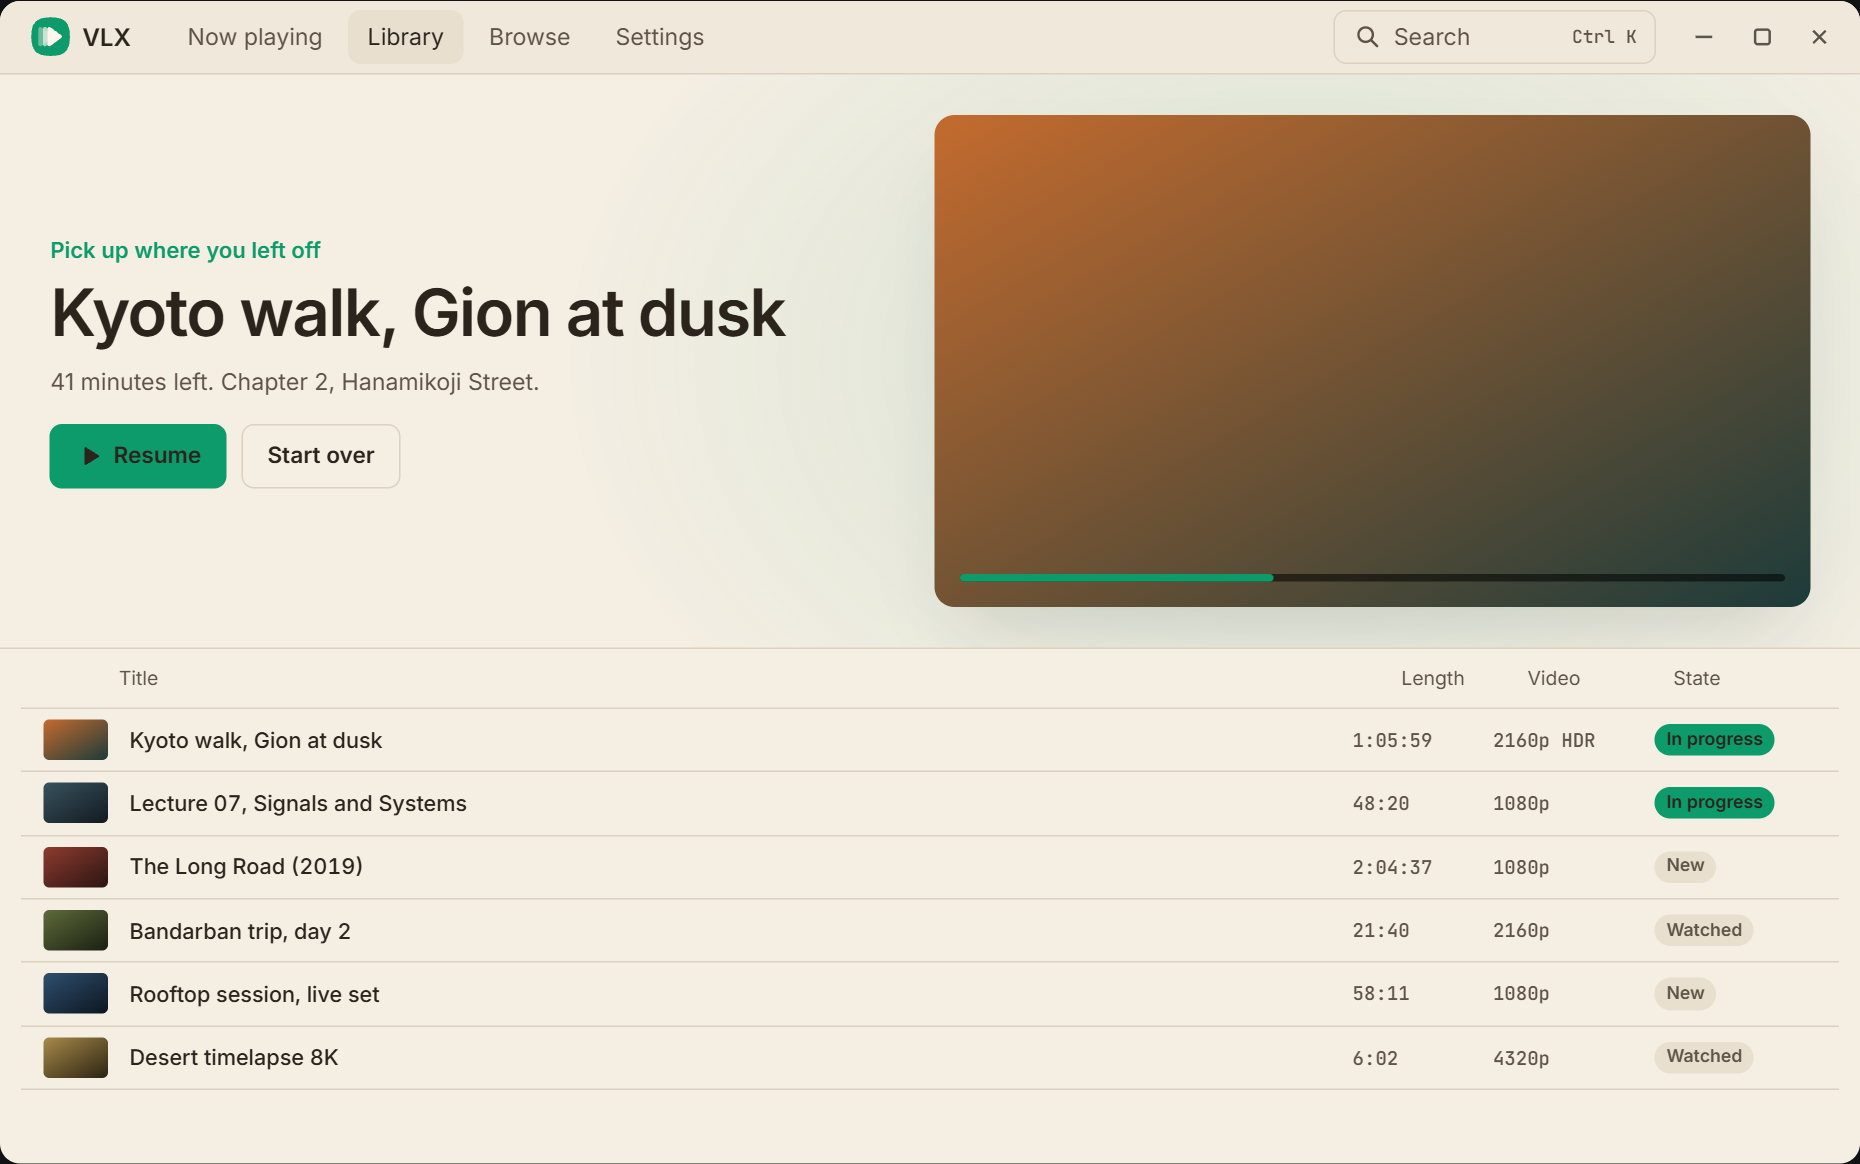
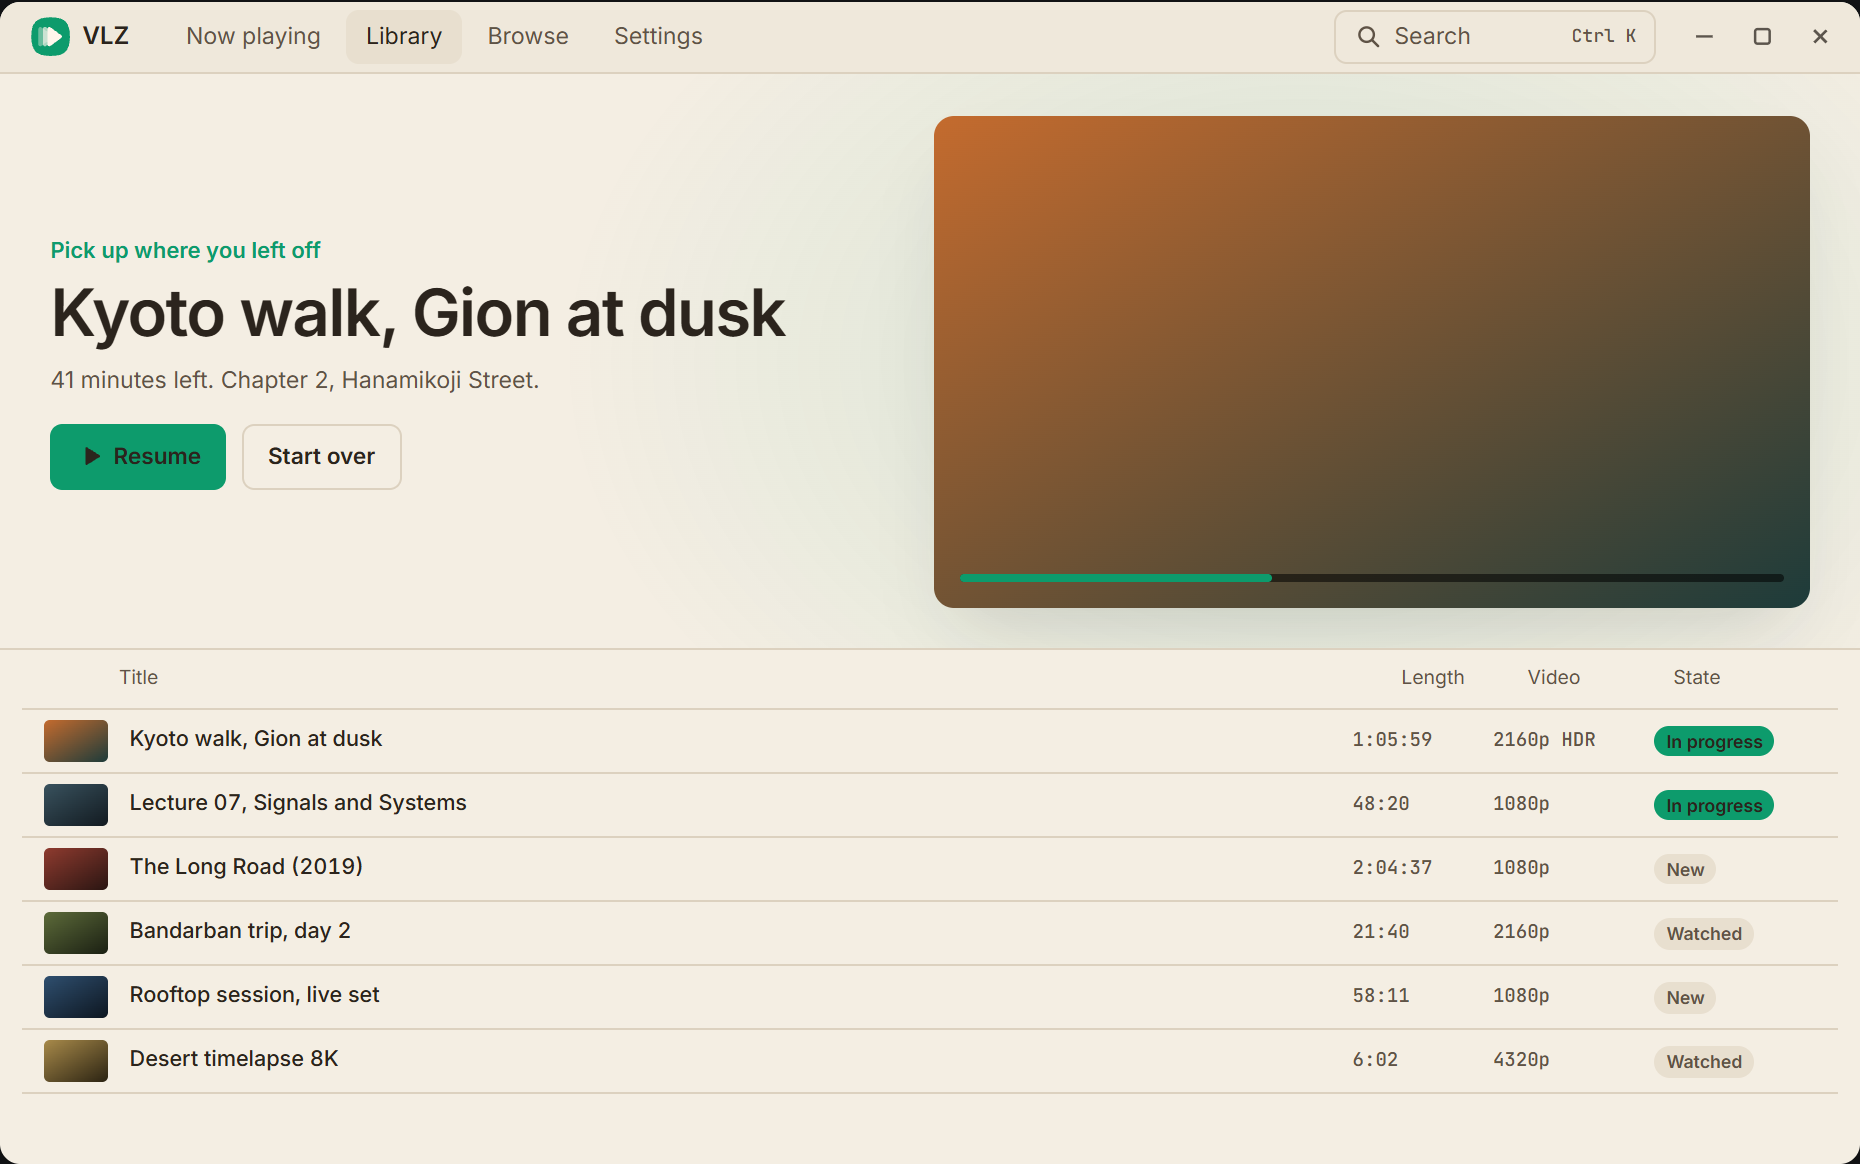
vlz: point links at the renamed GitHub repo and refresh the screenshots

diff --git a/extras/vlz/rebrand.py b/extras/vlz/rebrand.py
@@ -48,7 +48,7 @@ STRINGS = [
     ('extras/package/win32/NSIS/vlc.win32.nsi.in', '!define PRODUCT_NAME "VLC media player"', '!define PRODUCT_NAME "VLZ"'),
     ('extras/package/win32/NSIS/vlc.win32.nsi.in', '!define PRODUCT_GROUP "VideoLAN"', '!define PRODUCT_GROUP "VLZ"'),
     ('extras/package/win32/NSIS/vlc.win32.nsi.in', '!define PRODUCT_PUBLISHER "VideoLAN"', '!define PRODUCT_PUBLISHER "VLZ"'),
-    ('extras/package/win32/NSIS/vlc.win32.nsi.in', '!define PRODUCT_WEB_SITE "https://www.videolan.org/"', '!define PRODUCT_WEB_SITE "https://github.com/TriptoAfsin/vlx"'),
+    ('extras/package/win32/NSIS/vlc.win32.nsi.in', '!define PRODUCT_WEB_SITE "https://www.videolan.org/"', '!define PRODUCT_WEB_SITE "https://github.com/TriptoAfsin/vlz"'),
     ('extras/package/win32/NSIS/vlc.win32.nsi.in', '!define PRODUCT_ID "{ea92ef52-afe4-4212-bacb-dfe9fca94cd6}"', '!define PRODUCT_ID "{6b1f3c2e-4d7a-4f6e-9a8b-5c2d1e0f7a91}"'),
     ('extras/package/win32/NSIS/vlc.win32.nsi.in', 'InstallDir "$@PROGRAMFILES@\\${PRODUCT_PUBLISHER}\\VLC"', 'InstallDir "$@PROGRAMFILES@\\${PRODUCT_NAME}"'),
     ('extras/package/win32/NSIS/vlc.win32.nsi.in', 'BrandingText "${PRODUCT_GROUP} ${PRODUCT_NAME}"', 'BrandingText "${PRODUCT_NAME}, based on VLC media player"'),
@@ -62,7 +62,7 @@ PATTERNS = [
      r'qtr\( "<p>VLC media player is a free and open source media player.*?" \) \+',
      'qtr( "<p>VLZ is a personal, open source fork of <a href=\\"https://www.videolan.org/vlc/\\">VLC media player</a>. '
      'All credit for the engine and codecs goes to the volunteers of the <a href=\\"https://www.videolan.org/\\">VideoLAN</a> community.</p>'
-     '<p>VLZ is not affiliated with VideoLAN.</p><p><a href=\\"https://github.com/TriptoAfsin/vlx\\">VLZ on GitHub</a>" ) +'),
+     '<p>VLZ is not affiliated with VideoLAN.</p><p><a href=\\"https://github.com/TriptoAfsin/vlz\\">VLZ on GitHub</a>" ) +'),
 ]
 
 # (source in extras/vlz/brand, destination)

diff --git a/modules/gui/qt/dialogs/help/help.cpp b/modules/gui/qt/dialogs/help/help.cpp
@@ -95,7 +95,7 @@ AboutDialog::AboutDialog( qt_intf_t *_p_intf)
     ui.title->setText("<html><head/><body><p><span style=\" font-size:26pt; color:#353535;\"> " + qtr( "VLZ" ) + " </span></p></body></html>");
 
     ui.MainBlabla->setText("<html><head/><body>" +
-    qtr( "<p>VLZ is a personal, open source fork of <a href=\"https://www.videolan.org/vlc/\">VLC media player</a>. All credit for the engine and codecs goes to the volunteers of the <a href=\"https://www.videolan.org/\">VideoLAN</a> community.</p><p>VLZ is not affiliated with VideoLAN.</p><p><a href=\"https://github.com/TriptoAfsin/vlx\">VLZ on GitHub</a>" ) +
+    qtr( "<p>VLZ is a personal, open source fork of <a href=\"https://www.videolan.org/vlc/\">VLC media player</a>. All credit for the engine and codecs goes to the volunteers of the <a href=\"https://www.videolan.org/\">VideoLAN</a> community.</p><p>VLZ is not affiliated with VideoLAN.</p><p><a href=\"https://github.com/TriptoAfsin/vlz\">VLZ on GitHub</a>" ) +
     "</p></body> </html>");
 
     const QDate today = QDate::currentDate();

diff --git a/README.md b/README.md
@@ -40,7 +40,7 @@ Icon files (SVG, PNG from 16 to 512 px, and a Windows `.ico`) are in [`extras/vl
 
 ## Download
 
-Windows x64 builds come from GitHub Actions: see [Releases](https://github.com/TriptoAfsin/vlx/releases) for the setup
+Windows x64 builds come from GitHub Actions: see [Releases](https://github.com/TriptoAfsin/vlz/releases) for the setup
 and the portable `.7z`. There are no Linux or macOS builds; VLZ is made for Windows.
 
 ## Building
@@ -61,7 +61,7 @@ the exact commands used to check a change.
 | `main` | VLZ: upstream VLC plus the VLZ changes |
 | `master` | Untouched mirror of `upstream/master` |
 | `upstream` remote | `https://github.com/videolan/vlc.git` |
-| `origin` remote | `https://github.com/TriptoAfsin/vlx.git` |
+| `origin` remote | `https://github.com/TriptoAfsin/vlz.git` |
 
 To take a newer VLC, follow [`UPSTREAM.md`](UPSTREAM.md). VLZ follows pinned 4.0-dev commits until VLC 4.0 ships, then release tags.
 
